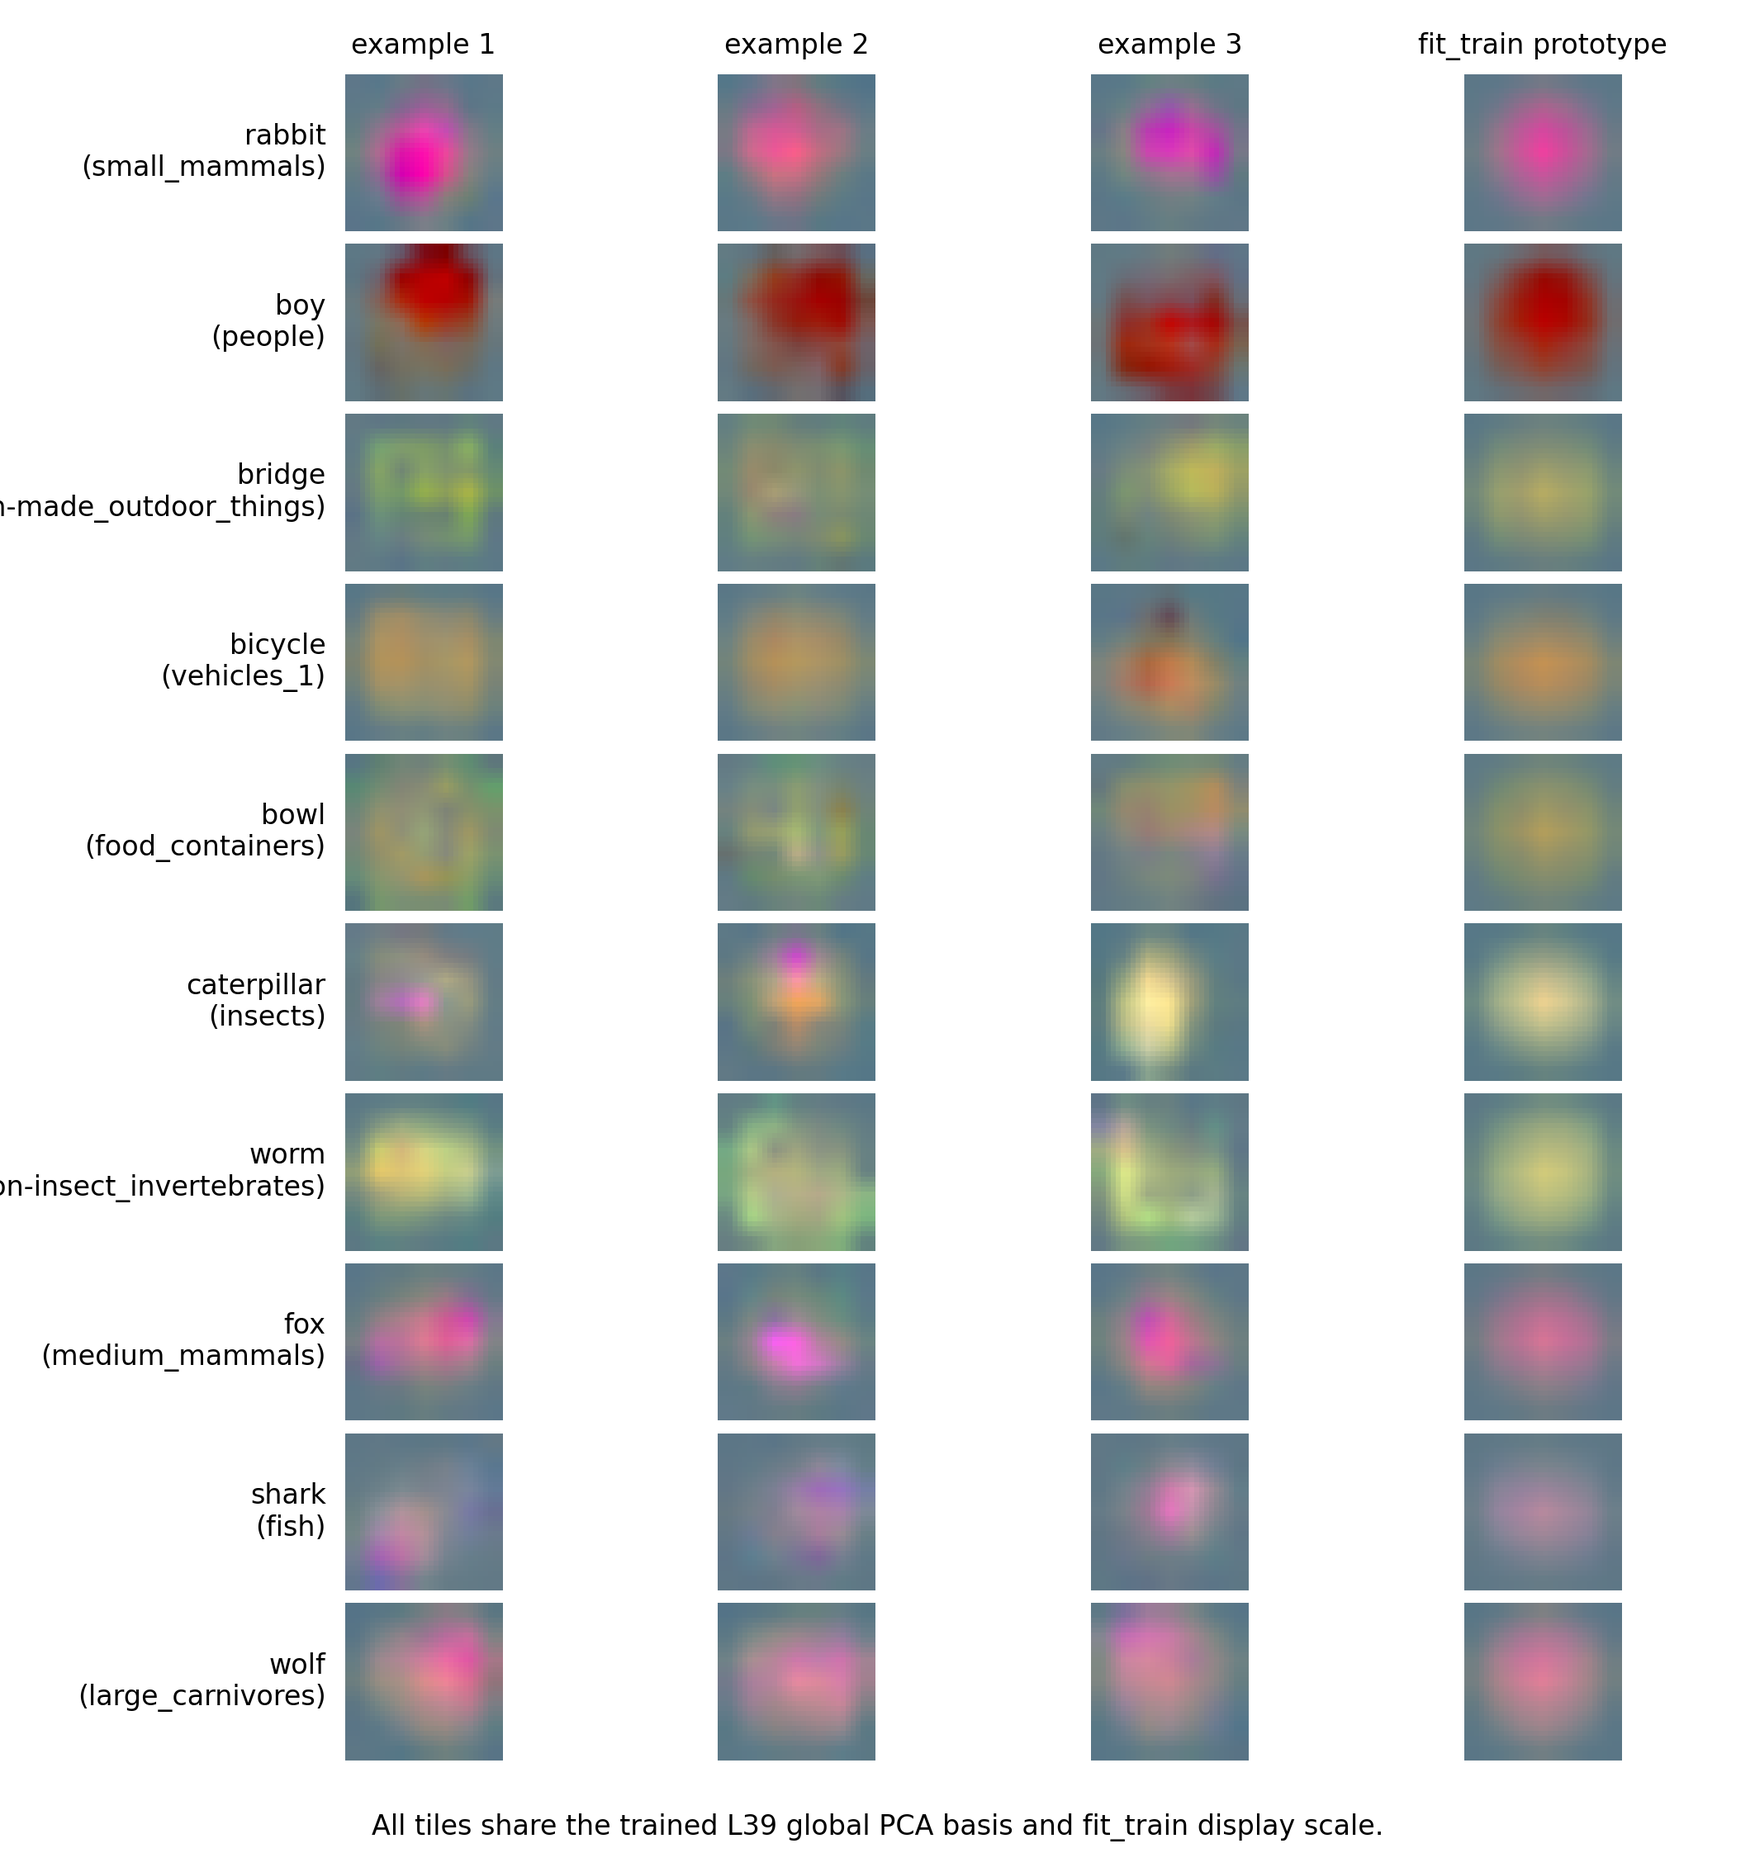
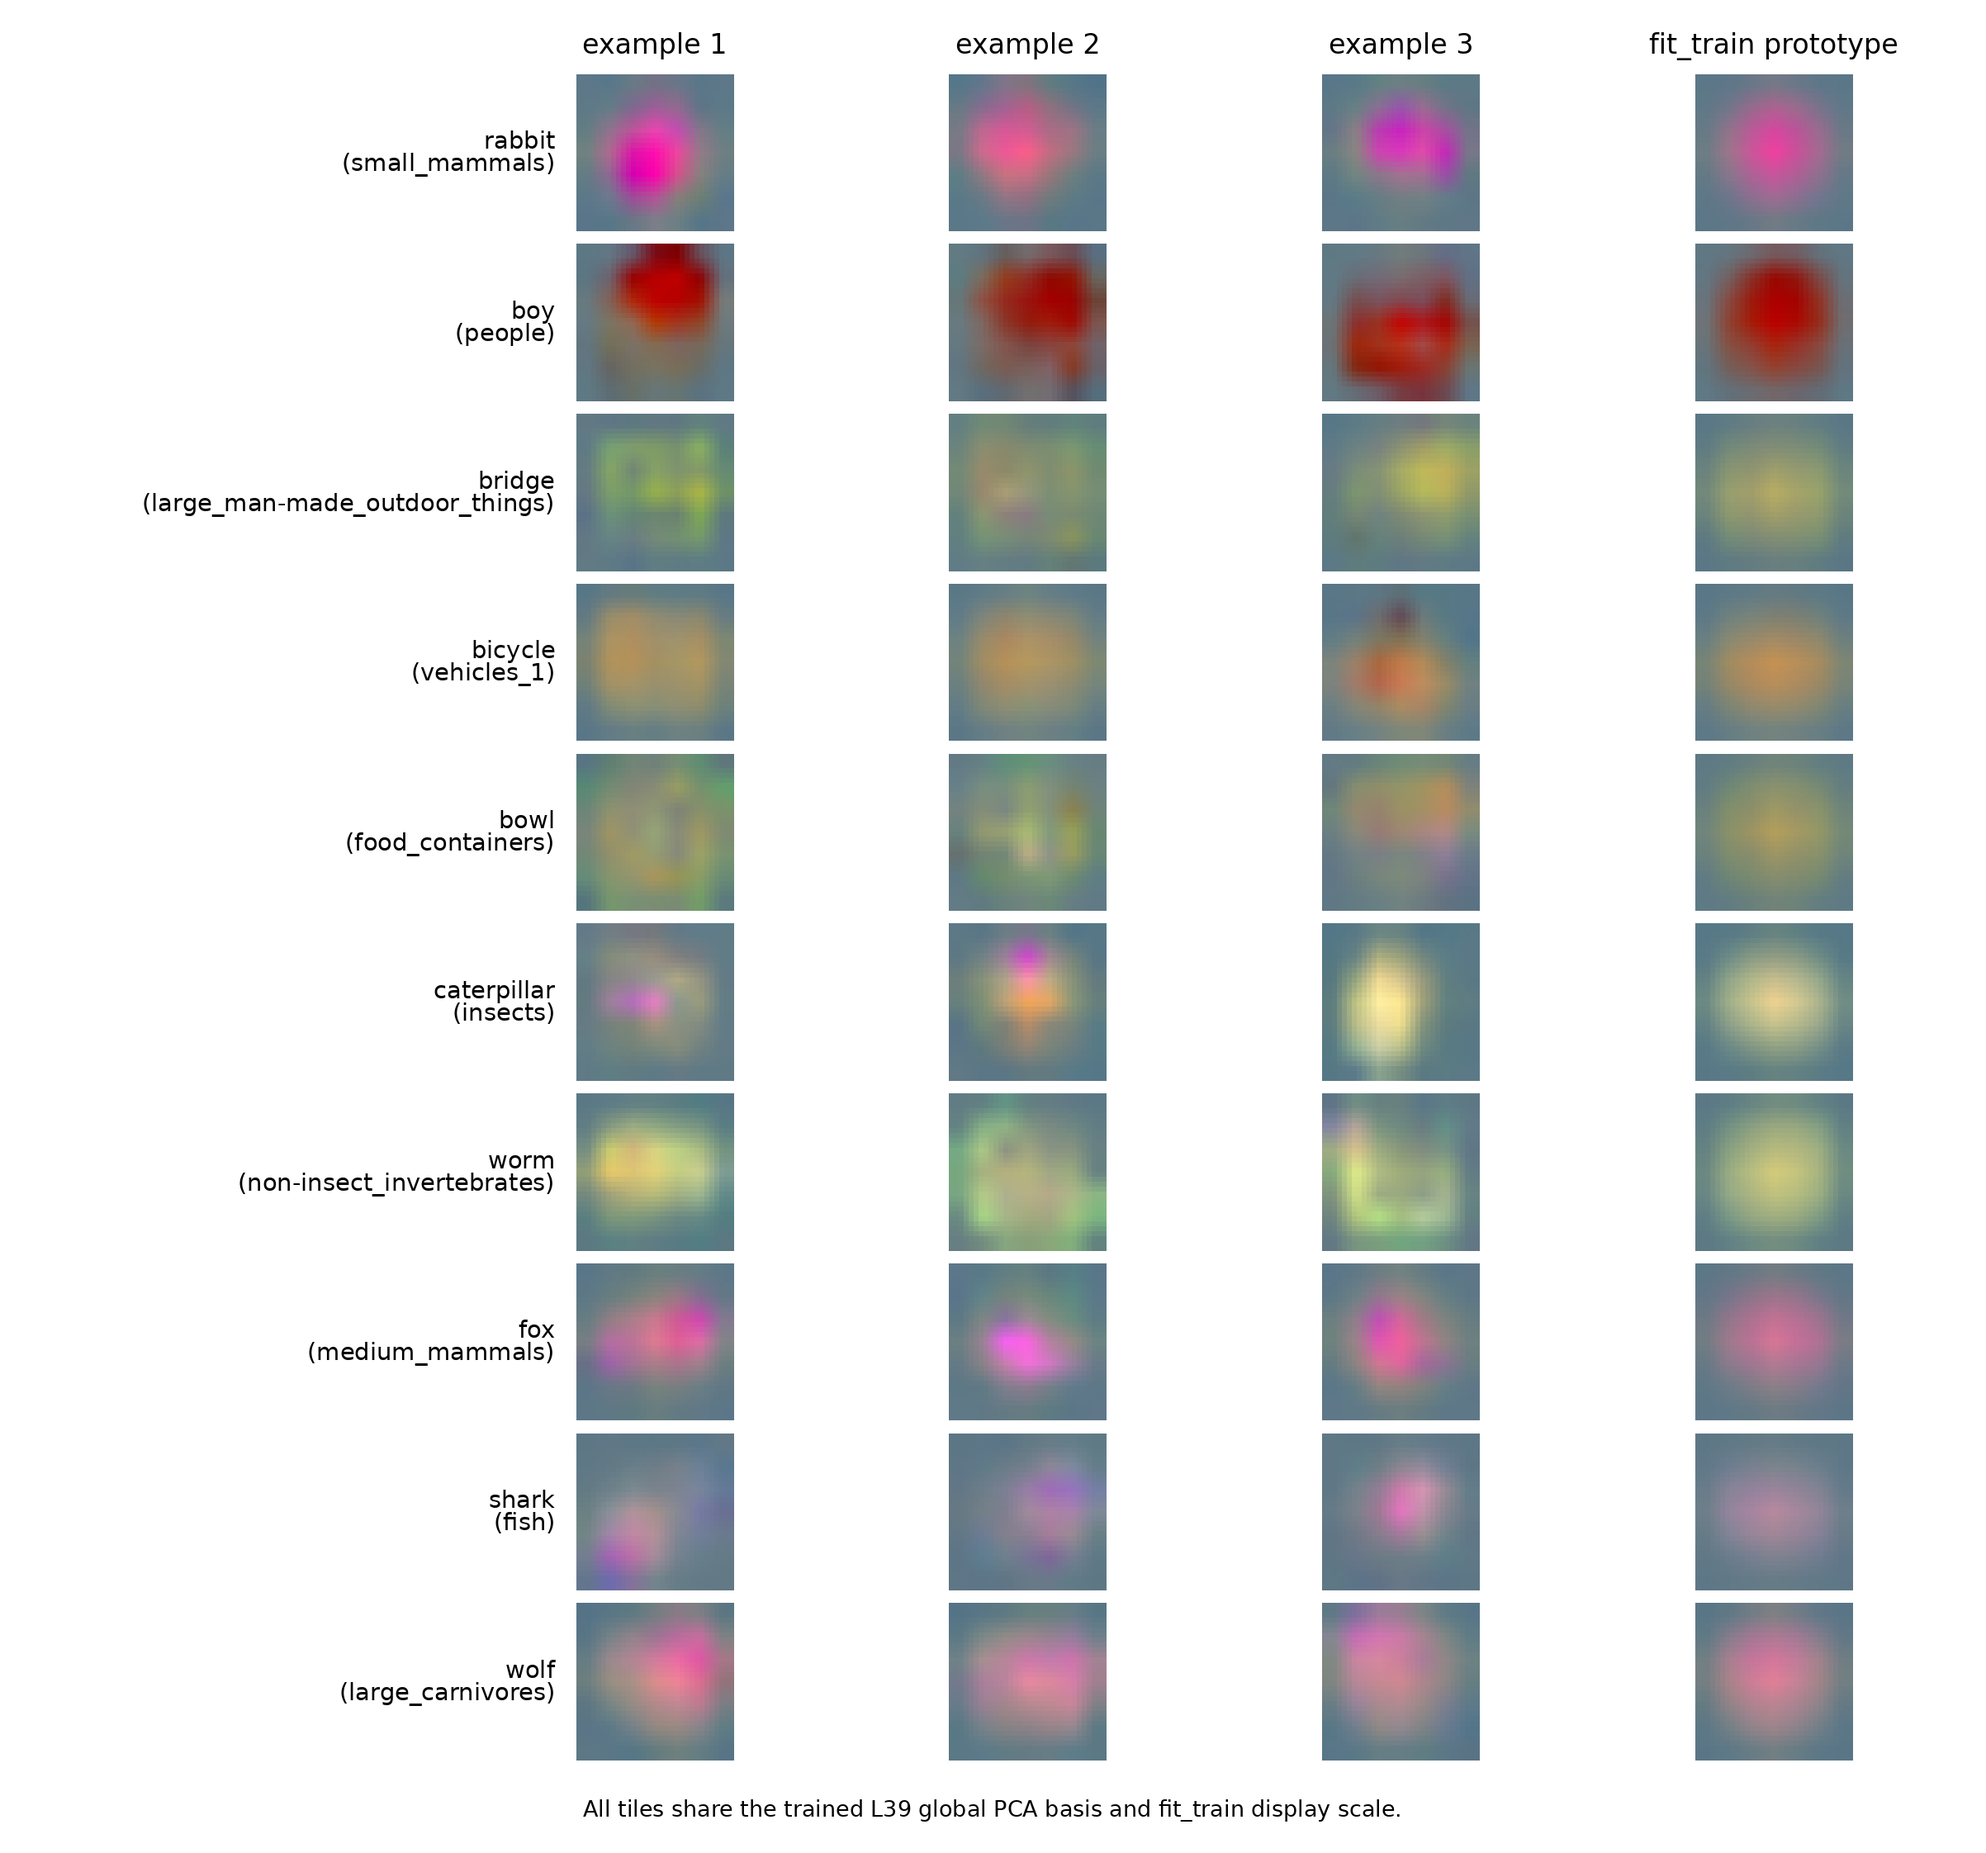
Make Progress I report build portable

diff --git a/tables/pca_rgb/PCA-TAB-04_cifar100_fine_coarse_hierarchy.tex b/tables/pca_rgb/PCA-TAB-04_cifar100_fine_coarse_hierarchy.tex
@@ -6,7 +6,7 @@
 \label{tab:pca-cifar100-hierarchy-main}
 \fontsize{8}{9.8}\selectfont
 \setlength{\tabcolsep}{3.5pt}
-\begin{tabularx}{\linewidth}{@{}l S[table-format=1.3] S[table-format=1.3] S[table-format=1.3] S[table-format=-1.3] S[table-format=-1.3] S[table-format=1.3] S[table-format=1.3] S[table-format=-1.3]@{}}
+\begin{tabularx}{\linewidth}{@{}l c c c c c c c c@{}}
 \toprule
 Tap & {Depth} & {\makecell{Fine prototype\\accuracy}} & {\makecell{Coarse prototype\\accuracy}} & {\makecell{Fine\\margin}} & {\makecell{Coarse\\margin}} & {\makecell{Fine\\B/W}} & {\makecell{Coarse\\B/W}} & {\makecell{Coarse--fine\\accuracy gap}}\\
 \midrule

diff --git a/tables/pca_rgb/PCA-TAB-08_pca_dimensionality_distance_sensitivity.tex b/tables/pca_rgb/PCA-TAB-08_pca_dimensionality_distance_sensitivity.tex
@@ -6,7 +6,7 @@
 \label{tab:pca-dimensionality-main}
 \fontsize{8}{9.6}\selectfont
 \setlength{\tabcolsep}{2.1pt}
-\begin{tabularx}{\linewidth}{@{}l l l S[table-format=3.0] S[table-format=1.3] S[table-format=-1.4] S[table-format=1.3] S[table-format=1.3] S[table-format=1.3] S[table-format=2.2]@{}}
+\begin{tabularx}{\linewidth}{@{}l l l c c c c c c c@{}}
 \toprule
 Dataset & Role & Representation & {k} & {\makecell{Cosine prototype\\accuracy}} & {\makecell{Cosine true\\margin}} & {\makecell{Euclidean prototype\\accuracy}} & {\makecell{RMS-Euclidean\\prototype accuracy}} & {B/W} & {\makecell{Effective\\rank}}\\
 \midrule

diff --git a/tables/pca_rgb/PCA-TAB-06_focused_transition_controls.tex b/tables/pca_rgb/PCA-TAB-06_focused_transition_controls.tex
@@ -6,7 +6,7 @@
 \label{tab:pca-focused-transition-controls}
 \fontsize{8}{9.6}\selectfont
 \setlength{\tabcolsep}{2.2pt}
-\begin{tabularx}{\linewidth}{@{}l l l S[table-format=1.3] S[table-format=-1.4] S[table-format=1.3] S[table-format=2.2] S[table-format=1.3] S[table-format=1.3] S[table-format=1.3]@{}}
+\begin{tabularx}{\linewidth}{@{}l l l c c c c c c c@{}}
 \toprule
 Dataset & Representation & Role & {\makecell{Prototype\\accuracy}} & {\makecell{True\\margin}} & {B/W} & {\makecell{Effective\\rank}} & {\makecell{Probe\\Top-1}} & {\makecell{Probe\\Top-5}} & {\makecell{Incoming\\1-CKA}}\\
 \midrule

diff --git a/sections/04_experiments.tex b/sections/04_experiments.tex
@@ -243,7 +243,7 @@ true-class prototype.
 
 \begin{figure}[p]
     \centering
-    \pcaresultfigure[height=0.88\textheight]{pca_rgb/PCA-FIG-08_cifar100_incorrect_prediction_alignment.png}
+    \pcaresultfigure[width=\textwidth,height=0.82\textheight,keepaspectratio]{pca_rgb/PCA-FIG-08_cifar100_incorrect_prediction_alignment.png}
     \caption{Frozen CIFAR-100 incorrect-prediction cases at L39. Positive
     $\Delta d$ indicates greater proximity to the predicted-class prototype.
     Both supporting cases and counterexamples are retained. Alignment is

diff --git a/main.tex b/main.tex
@@ -15,8 +15,8 @@
 \usepackage[section]{placeins}
 \usepackage{enumitem}
 \usepackage{xcolor}
+\usepackage{colortbl}
 \usepackage{makecell}
-\usepackage{siunitx}
 \usepackage{threeparttable}
 \usepackage{pdflscape}
 \usepackage{microtype}
@@ -47,7 +47,6 @@
   \arrayrulecolor{black!18}\specialrule{0.22pt}{0pt}{0pt}%
   \arrayrulecolor{black}%
 }
-\sisetup{detect-all,table-number-alignment=center}
 \newcommand{\evidenceplaceholder}[2]{%
     \begin{center}
     \setlength{\fboxsep}{8pt}%

diff --git a/tables/pca_rgb/PCA-TAB-03_trained_vs_random.tex b/tables/pca_rgb/PCA-TAB-03_trained_vs_random.tex
@@ -6,7 +6,7 @@
 \label{tab:pca-trained-random-main}
 \fontsize{8}{9.8}\selectfont
 \setlength{\tabcolsep}{3.5pt}
-\begin{tabularx}{\linewidth}{@{}l l S[table-format=1.3] S[table-format=1.3] S[table-format=1.3] S[table-format=1.3] c S[table-format=1.3]@{}}
+\begin{tabularx}{\linewidth}{@{}l l c c c c c c@{}}
 \toprule
 Dataset & Tap & {Trained} & {Random seed 0} & {Random seed 1} & {Random seed 2} & {\makecell{Random mean\\$\pm$ SD}} & {\makecell{Trained $-$\\random mean}}\\
 \midrule

diff --git a/tables/pca_rgb/PCA-TAB-05_wrong_prediction_alignment.tex b/tables/pca_rgb/PCA-TAB-05_wrong_prediction_alignment.tex
@@ -6,7 +6,7 @@
 \label{tab:pca-wrong-alignment-main}
 \fontsize{8}{9.8}\selectfont
 \setlength{\tabcolsep}{3.2pt}
-\begin{tabularx}{\linewidth}{@{}l l Y S[table-format=4.0] S[table-format=1.3] c S[table-format=-1.3] S[table-format=-1.3]@{}}
+\begin{tabularx}{\linewidth}{@{}l l Y c c c c c@{}}
 \toprule
 Dataset & Tap & Error group & {n} & {\makecell{Fraction\\$\Delta d>0$}} & {95\% CI} & {\makecell{Median\\$\Delta d$}} & {\makecell{Mean\\$\Delta d$}}\\
 \midrule

diff --git a/tables/pca_rgb/PCA-TAB-11_cross_dataset_transition_summary.tex b/tables/pca_rgb/PCA-TAB-11_cross_dataset_transition_summary.tex
@@ -5,7 +5,7 @@
 \label{tab:pca-cross-dataset-transition}
 \fontsize{8}{9.8}\selectfont
 \setlength{\tabcolsep}{3.5pt}
-\begin{tabularx}{\linewidth}{@{}l l S[table-format=1.3] S[table-format=1.3] S[table-format=-1.3] S[table-format=1.3] l@{}}
+\begin{tabularx}{\linewidth}{@{}l l c c c c l@{}}
 \toprule
 Dataset & Selected transition & {Normalized depth} & {Prototype accuracy} & {True margin} & {\makecell{B/W\\separation}} & Selection partition\\
 \midrule

diff --git a/tables/pca_rgb/PCA-TAB-09_label_permutation_null.tex b/tables/pca_rgb/PCA-TAB-09_label_permutation_null.tex
@@ -5,7 +5,7 @@
 \label{tab:pca-label-permutation-null}
 \fontsize{8}{9.8}\selectfont
 \setlength{\tabcolsep}{3.2pt}
-\begin{tabularx}{\linewidth}{@{}l Y l S[table-format=1.3] c c@{}}
+\begin{tabularx}{\linewidth}{@{}l Y l c c c@{}}
 \toprule
 Dataset & Condition & Tap & {Actual accuracy} & {\makecell{Null mean\\$\pm$ SD}} & {Null 95\% interval}\\
 \midrule

diff --git a/tables/pca_rgb/PCA-TAB-07_selector_component_ablation.tex b/tables/pca_rgb/PCA-TAB-07_selector_component_ablation.tex
@@ -5,7 +5,7 @@
 \label{tab:pca-selector-main}
 \fontsize{8}{9.8}\selectfont
 \setlength{\tabcolsep}{3.2pt}
-\begin{tabularx}{\linewidth}{@{}l Y l S[table-format=1.3] Y@{}}
+\begin{tabularx}{\linewidth}{@{}l Y l c Y@{}}
 \toprule
 Dataset & Selector & Selected tap & {Score} & Weights\\
 \midrule
